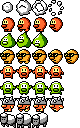
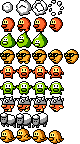
Bird

diff --git a/src/enemy.js b/src/enemy.js
@@ -447,3 +447,50 @@ export class Jumper extends Enemy {
         this.speed.y = JUMP_HEIGHT;
     }
 }
+
+
+export class Bird extends Enemy {
+
+    constructor(x, y) {
+
+        super(x, y);
+
+        this.spr.setFrame(8, 0);
+
+        this.colbox.y = 16;
+
+        this.speedSet = false;
+    }
+
+
+    checkPlayer(o) {
+
+        const BASE_SPEED = 0.5;
+
+        if (!this.speedSet) {
+
+            this.target.x = (o.pos.x < this.pos.x ? -1 : 1) * BASE_SPEED;
+            this.speed.x = this.target.x;
+            this.speedSet = true;
+        }
+    }
+
+
+    // Logic
+    updateLogic(ev) { }
+
+
+    // Animate
+    animate(ev) {
+
+        this.spr.animate(this.spr.row, 0, 3, 6, ev.step);
+        this.flip = this.target.x < 0 ? Flip.None : Flip.Horizontal;
+    }
+
+
+    wallEvent(ev) {
+
+        this.target.x *= -1;
+        this.speed.x *= -1;
+    }
+}

diff --git a/src/stage.js b/src/stage.js
@@ -7,7 +7,7 @@
 
 import { negMod } from "./core/util.js";
 import { Coin, Heart } from "./collectable.js";
-import { Walker, Slime, Dog, ImpVertical, ImpHorizontal, SpikeyWalker, Jumper } from "./enemy.js";
+import { Walker, Slime, Dog, ImpVertical, ImpHorizontal, SpikeyWalker, Jumper, Bird } from "./enemy.js";
 import { Vector2 } from "./core/vector.js";
 
 
@@ -164,10 +164,11 @@ export class Stage {
                 case 21:
                 case 22:
                 case 23:
+                case 24:
                     objm.addEnemy( 
                         [Walker, Slime, Dog, 
                         ImpVertical, ImpHorizontal, SpikeyWalker,
-                        Jumper] [t-17], 
+                        Jumper, Bird] [t-17], 
                         x*16, y*16);
                     break;
 

diff --git a/src/player.js b/src/player.js
@@ -18,8 +18,8 @@ class Boomerang extends GameObject {
 
         super(16, 16);
 
-        this.hitbox.x = 12;
-        this.hitbox.y = 12;
+        this.hitbox.x = 16;
+        this.hitbox.y = 16;
 
         this.colbox.x = 4;
         this.colbox.y = 4;
